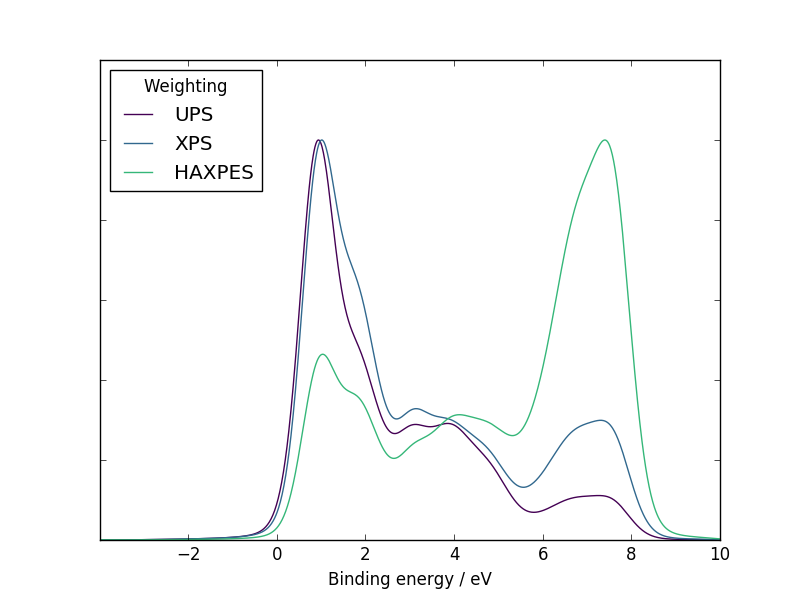
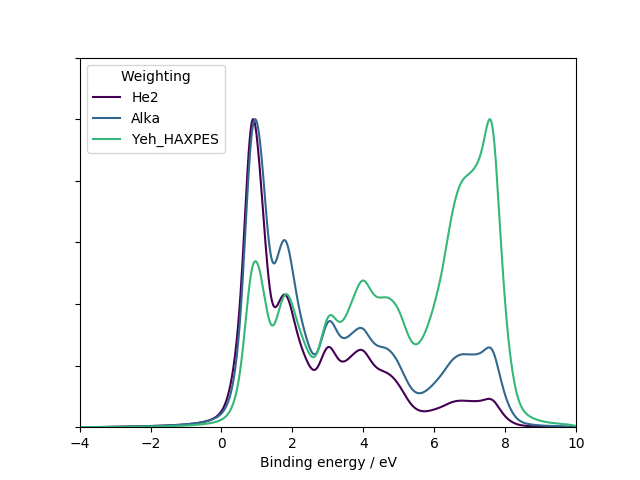
ENH: Rename Yeh data sets from XPS, UPS to Alka, He2
This is an API-breaking change. A special error message is included
to advise users of the new syntax. The pupose of this change is to
allow other keywords for different sources, and avoid the imprecision
of "XPS" being a synonym of "Al k-alpha XPS"

diff --git a/galore/cross_sections.py b/galore/cross_sections.py
@@ -53,8 +53,13 @@ def get_cross_sections(weighting, elements=None):
 
     except ValueError:
         if isinstance(weighting, str):
-            if weighting in ('xps', 'ups', 'haxpes'):
+            if weighting.lower() in ('alka', 'he2', 'yeh_haxpes'):
                 return get_cross_sections_yeh(weighting)
+            elif weighting.lower() in ('xps', 'ups', 'haxpes'):
+                raise ValueError("Key '{0}' is no longer accepted for "
+                                 "weighting. Please use 'alka' for Al k-alpha,"
+                                 " 'he2' for He (II) or 'yeh_haxpes' for "
+                                 "8047.8 eV HAXPES".format(weighting))
             else:
                 return get_cross_sections_json(weighting)
 
@@ -155,7 +160,9 @@ def get_cross_sections_yeh(source):
 
     Args:
         source (str): Label corresponding to radiation source. Accepted values
-            'xps' (1486.6 eV), 'ups' (40.8 eV), 'haxpes' (8047.8).
+            'alka' (1486.6 eV), 'he2' (40.8 eV), 'yeh_haxpes' (8047.8).
+            These keys are not case-sensitive and correspond to Al k-alpha,
+            He(II) and hard x-ray sources.
 
     Returns:
         dict:
@@ -167,11 +174,11 @@ def get_cross_sections_yeh(source):
 
     """
 
-    weighting_files = {'xps': resource_filename(
+    weighting_files = {'alka': resource_filename(
                        __name__, "data/cross_sections.json"),
-                       'ups': resource_filename(
+                       'he2': resource_filename(
                            __name__, "data/cross_sections_ups.json"),
-                       'haxpes': resource_filename(
+                       'yeh_haxpes': resource_filename(
                            __name__, "data/cross_sections_haxpes.json")}
 
     if source.lower() in weighting_files:

diff --git a/test/test_cross_sections.py b/test/test_cross_sections.py
@@ -38,8 +38,8 @@ class test_cross_sections_dispatch(unittest.TestCase):
                          side_effect=mock_get_cross_sections_yeh)
     def test_yeh_dispatch(self, mock_func):
         """Check tabulated weightings are dispatched correctly"""
-        self.assertEqual(get_cross_sections('xps'),
-                         ('xps', 'YEH'))
+        self.assertEqual(get_cross_sections('alka'),
+                         ('alka', 'YEH'))
 
     @unittest.mock.patch('galore.cross_sections.get_cross_sections_scofield',
                          side_effect=mock_get_cross_sections_scofield)
@@ -68,17 +68,26 @@ class test_json_data(unittest.TestCase):
 class test_yeh_data(unittest.TestCase):
     def test_xps_yeh(self):
         """Check Al k-alpha data from Yeh/Lindau"""
-        Lr_cs = get_cross_sections_yeh('xps')['Lr']
+        Lr_cs = get_cross_sections_yeh('AlKa')['Lr']
         self.assertAlmostEqual(Lr_cs['p'], 0.001666666666666667)
 
-        H_cs = get_cross_sections_yeh('xps')['H']
+        H_cs = get_cross_sections_yeh('alka')['H']
         self.assertIsNone(H_cs['f'])
 
     def test_ups_yeh(self):
         """Check He(II) data from Yeh/Lindau"""
-        Pr_cs = get_cross_sections_yeh('ups')['Pr']
+        Pr_cs = get_cross_sections_yeh('He2')['Pr']
         self.assertAlmostEqual(Pr_cs['f'], 0.848)
 
+class test_yeh_old_keys(unittest.TestCase):
+    def test_yeh_old_keys(self):
+        with self.assertRaises(ValueError):
+            get_cross_sections('xps')
+        with self.assertRaises(ValueError):
+            get_cross_sections('ups')
+        with self.assertRaises(ValueError):
+            get_cross_sections('haxpes')
+        
 
 class test_scofield_data(unittest.TestCase):
     def setUp(self):

diff --git a/galore/cli/galore.py b/galore/cli/galore.py
@@ -203,10 +203,14 @@ def get_parser():
         '-w', '--weighting',
         type=str,
         default=None,
-        help='Apply cross-section weighting to data. "XPS", "UPS" and "HAXPES"'
-             'select tabulated data for valence band at 1486.6 eV, 40.8 eV '
-             'and (HAXPES) respectively. Alternatively, provide path to a '
-             'JSON file with cross-section data.')
+        help='Apply cross-section weighting to data. "alka", "he2" and '
+             '"yeh_haxpes" select tabulated data for valence band at 1486.6 '
+             'eV, 40.8 eV and 8047.8 eV respectively. '
+             'Numerical values will be interpreted as an energy in keV; '
+             'for energies from 1-1500 eV cross-sections will be determined '
+             'using a parametrisation from tabulated data. '
+             'Alternatively, provide '
+             'path to a JSON file with cross-section data.')
     parser.add_argument(
         '--units',
         '--x_units',

diff --git a/galore/cli/galore_get_cs.py b/galore/cli/galore_get_cs.py
@@ -34,7 +34,7 @@ def get_parser():
     parser = ArgumentParser()
     parser.add_argument('energy', type=str,
                         help="""
-        Photon energy, expressed as source type: "ups" for He (II), "xps" for
+        Photon energy, expressed as source type: "he2" for He (II), "alka" for
         Al k-alpha, (values from Yeh/Lindau (1985)) or as energy in keV (values
         from polynomial fit to Scofield (1973)).""")
     parser.add_argument('elements', type=str, nargs='+', help="""

diff --git a/docs/source/api_demo_weightings.py b/docs/source/api_demo_weightings.py
@@ -12,7 +12,7 @@ xmin, xmax = (-10, 4)
 fig = plt.figure()
 ax = fig.add_subplot(1, 1, 1)
 
-weightings = ('UPS', 'XPS', 'HAXPES')
+weightings = ('He2', 'Alka', 'Yeh_HAXPES')
 
 for i, weighting in enumerate(weightings):
 

diff --git a/docs/source/tutorials.rst b/docs/source/tutorials.rst
@@ -162,7 +162,7 @@ in this file.
 Let's turn this into a useful XPS plot. The flag ``--weightings`` can
 be used to pass a data file with cross-section data; for some cases
 data is build into Galore. Here we will use the data for Al k-α
-radiation which is denoted ``xps`` is built into Galore.  We also flip
+radiation which is denoted ``alka`` is built into Galore.  We also flip
 the x-axis with ``--flipx`` to match the usual presentation of XPS
 data as positive ionisation or binding energies rather than the
 negative energy of the stable electron states. Finally the
@@ -171,7 +171,7 @@ data is written to a CSV file with the ``--csv`` option.
 .. code-block:: bash
 
     galore test/MgO/MgO_Mg_dos.dat test/MgO/MgO_O_dos.dat \
-      --plot mgo_xps.png --pdos -g 0.2 -l 0.2 --weighting xps \
+      --plot mgo_xps.png --pdos -g 0.2 -l 0.2 --weighting alka \
       --units ev --xmin -1 --xmax 8 --ylabel Intensity \
       --csv mgo_xps.csv --flipx
 
@@ -211,7 +211,7 @@ We have digitised the experimental data plotted in Fig.3 of
 in order to aid a direct comparison::
 
   galore test/SnO2/vasprun.xml.gz --plot -g 0.5 -l 0.4 \
-    --pdos --w XPS --flipx --xmin -2 --xmax 10 \
+    --pdos --w alka --flipx --xmin -2 --xmax 10 \
     --overlay test/SnO2/xps_data.csv  --overlay_offset -4 \
     --overlay_scale 3.5 --units ev --ylabel Intensity
 
@@ -243,7 +243,7 @@ zero suggests the presence of some phenomenon in the bandgap which was
 not captured by the *ab initio* calculation::
 
   galore test/SnO2/vasprun.xml.gz --plot -g 0.5 -l 0.9 \
-    --pdos --w ups --flipx --xmin -2 --xmax 10 \
+    --pdos --w he2 --flipx --xmin -2 --xmax 10 \
     --overlay test/SnO2/ups_data.csv --overlay_offset 0.44 \
     --units ev --ylabel Intensity --overlay_style x    
 
@@ -268,7 +268,7 @@ were performed with 5.95 keV x-rays, while the weighting parameters
 from Yeh and Lindau are for 8.05 keV so an exact match is unlikely::
 
    galore test/SnO2/vasprun.xml.gz --plot -g 0.3 -l 0.5 --pdos \
-     --w haxpes --flipx --xmin -2 --xmax 10 \
+     --w yeh_haxpes --flipx --xmin -2 --xmax 10 \
      --overlay test/SnO2/haxpes_data.csv --overlay_offset -3.7 \
      --ylabel Intensity --overlay_style -
 

diff --git a/CHANGELOG.rst b/CHANGELOG.rst
@@ -7,10 +7,13 @@ Versioning <http://semver.org/>`__. The changelog format is inspired by
 
 `Unreleased <https://github.com/smtg-ucl/galore/compare/0.2.0...HEAD>`__
 -------------------------------------------------------------------------
+
 - BUGFIX: Yeh/Lindau weightings for partially-occupied orbitals
 - BUGFIX: Odd behaviour in s orbitals including one transcription error
 - Expanded weighting features: HAXPES data parametrised from Scofield tables
 - Verbose output including cross sections, warnings and data source citations
+- galore-get-sc tool for direct access to cross-section data
+- Change Yeh labels from 'xps', 'ups', 'haxpes' to 'alka', 'he2', 'yeh_haxpes'
 
 `[0.2.0] <https://github.com/smtg-ucl/galore/compare/0.1.0...0.2.0>`__ - 2017-09-29
 -----------------------------------------------------------------------------------
